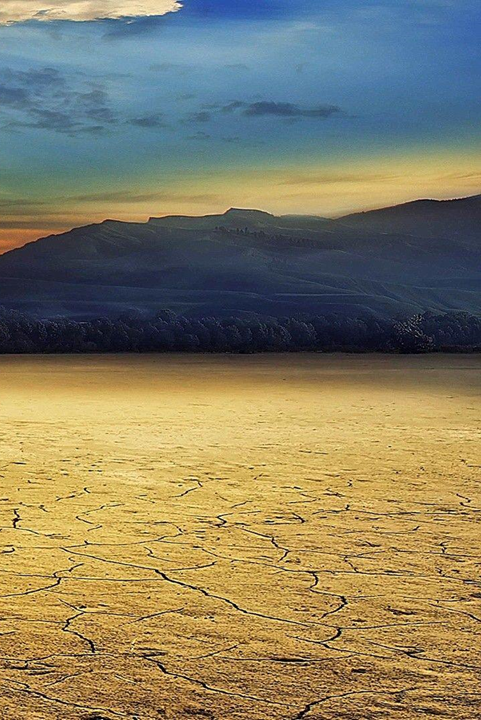
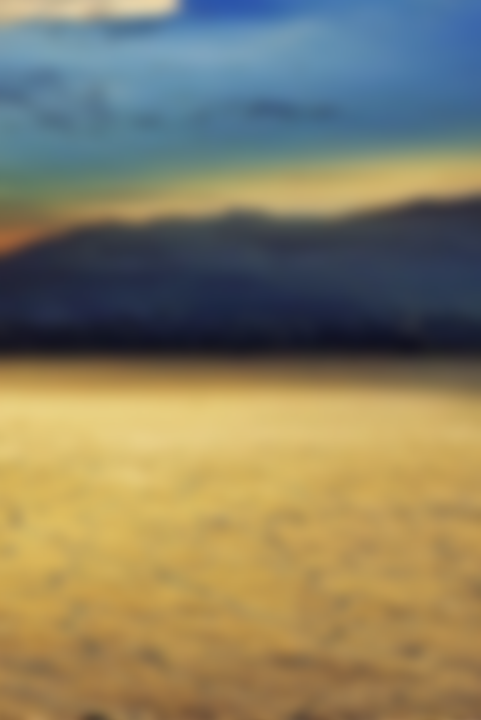
fix blur background

diff --git a/core/front-end.h b/core/front-end.h
@@ -191,7 +191,7 @@ void DrawABall(SDL_Renderer* renderer,int x,int y,int color){
             break;
     }
 }
-void ShowLevel(SDL_Renderer* renderer){
+void ShowLevel(SDL_Renderer* renderer,int level_id){
     SDL_RenderClear(renderer);
     SDL_PollEvent(e);
     if( e -> type == SDL_QUIT){
@@ -211,14 +211,30 @@ void ShowLevel(SDL_Renderer* renderer){
         show_level_4=false;
         show_level_5=false;
     }
+    switch (level_id) {
+        case 1:
+            DrawWithoutPresent(renderer,l_desert_img,l_desert_rect,0,0,WIDTH,HEIGHT);
+            break;
+        case 2:
+            DrawWithoutPresent(renderer,l_volcano_img,l_volcano_rect,0,0,WIDTH,HEIGHT);
+            break;
+        case 3:
+            DrawWithoutPresent(renderer,l_poison_img,l_poison_rect,0,0,WIDTH,HEIGHT);
+            break;
+        case 4:
+            DrawWithoutPresent(renderer,l_shadow_img,l_shadow_rect,0,0,WIDTH,HEIGHT);
+            break;
+        case 5:
+            DrawWithoutPresent(renderer,l_final_img,l_final_rect,0,0,WIDTH,HEIGHT);
+            break;
 
-
+    }
     ShowBalls(renderer);
     added_y += Vy;
     ShowCannon(renderer);
     SDL_GetMouseState(&mouse_x,&mouse_y);
     DrawShootLine(renderer,mouse_x,mouse_y);
-    SDL_RenderPresent(renderer);
+
 
     //SDL_Delay(0.1);
 }

diff --git a/main.cpp b/main.cpp
@@ -91,9 +91,9 @@ int main(int argc, char* argv[]) {
             Setting(renderer);
         }
         while(show_level_1){
-            //Draw(renderer,l_desert_img,l_desert_rect,0,0,WIDTH,HEIGHT);
             SDL_SetRenderDrawColor(renderer,0,0,0,225);
-            ShowLevel(renderer);
+            ShowLevel(renderer,1);
+            SDL_RenderPresent(renderer);
         }
 
 
